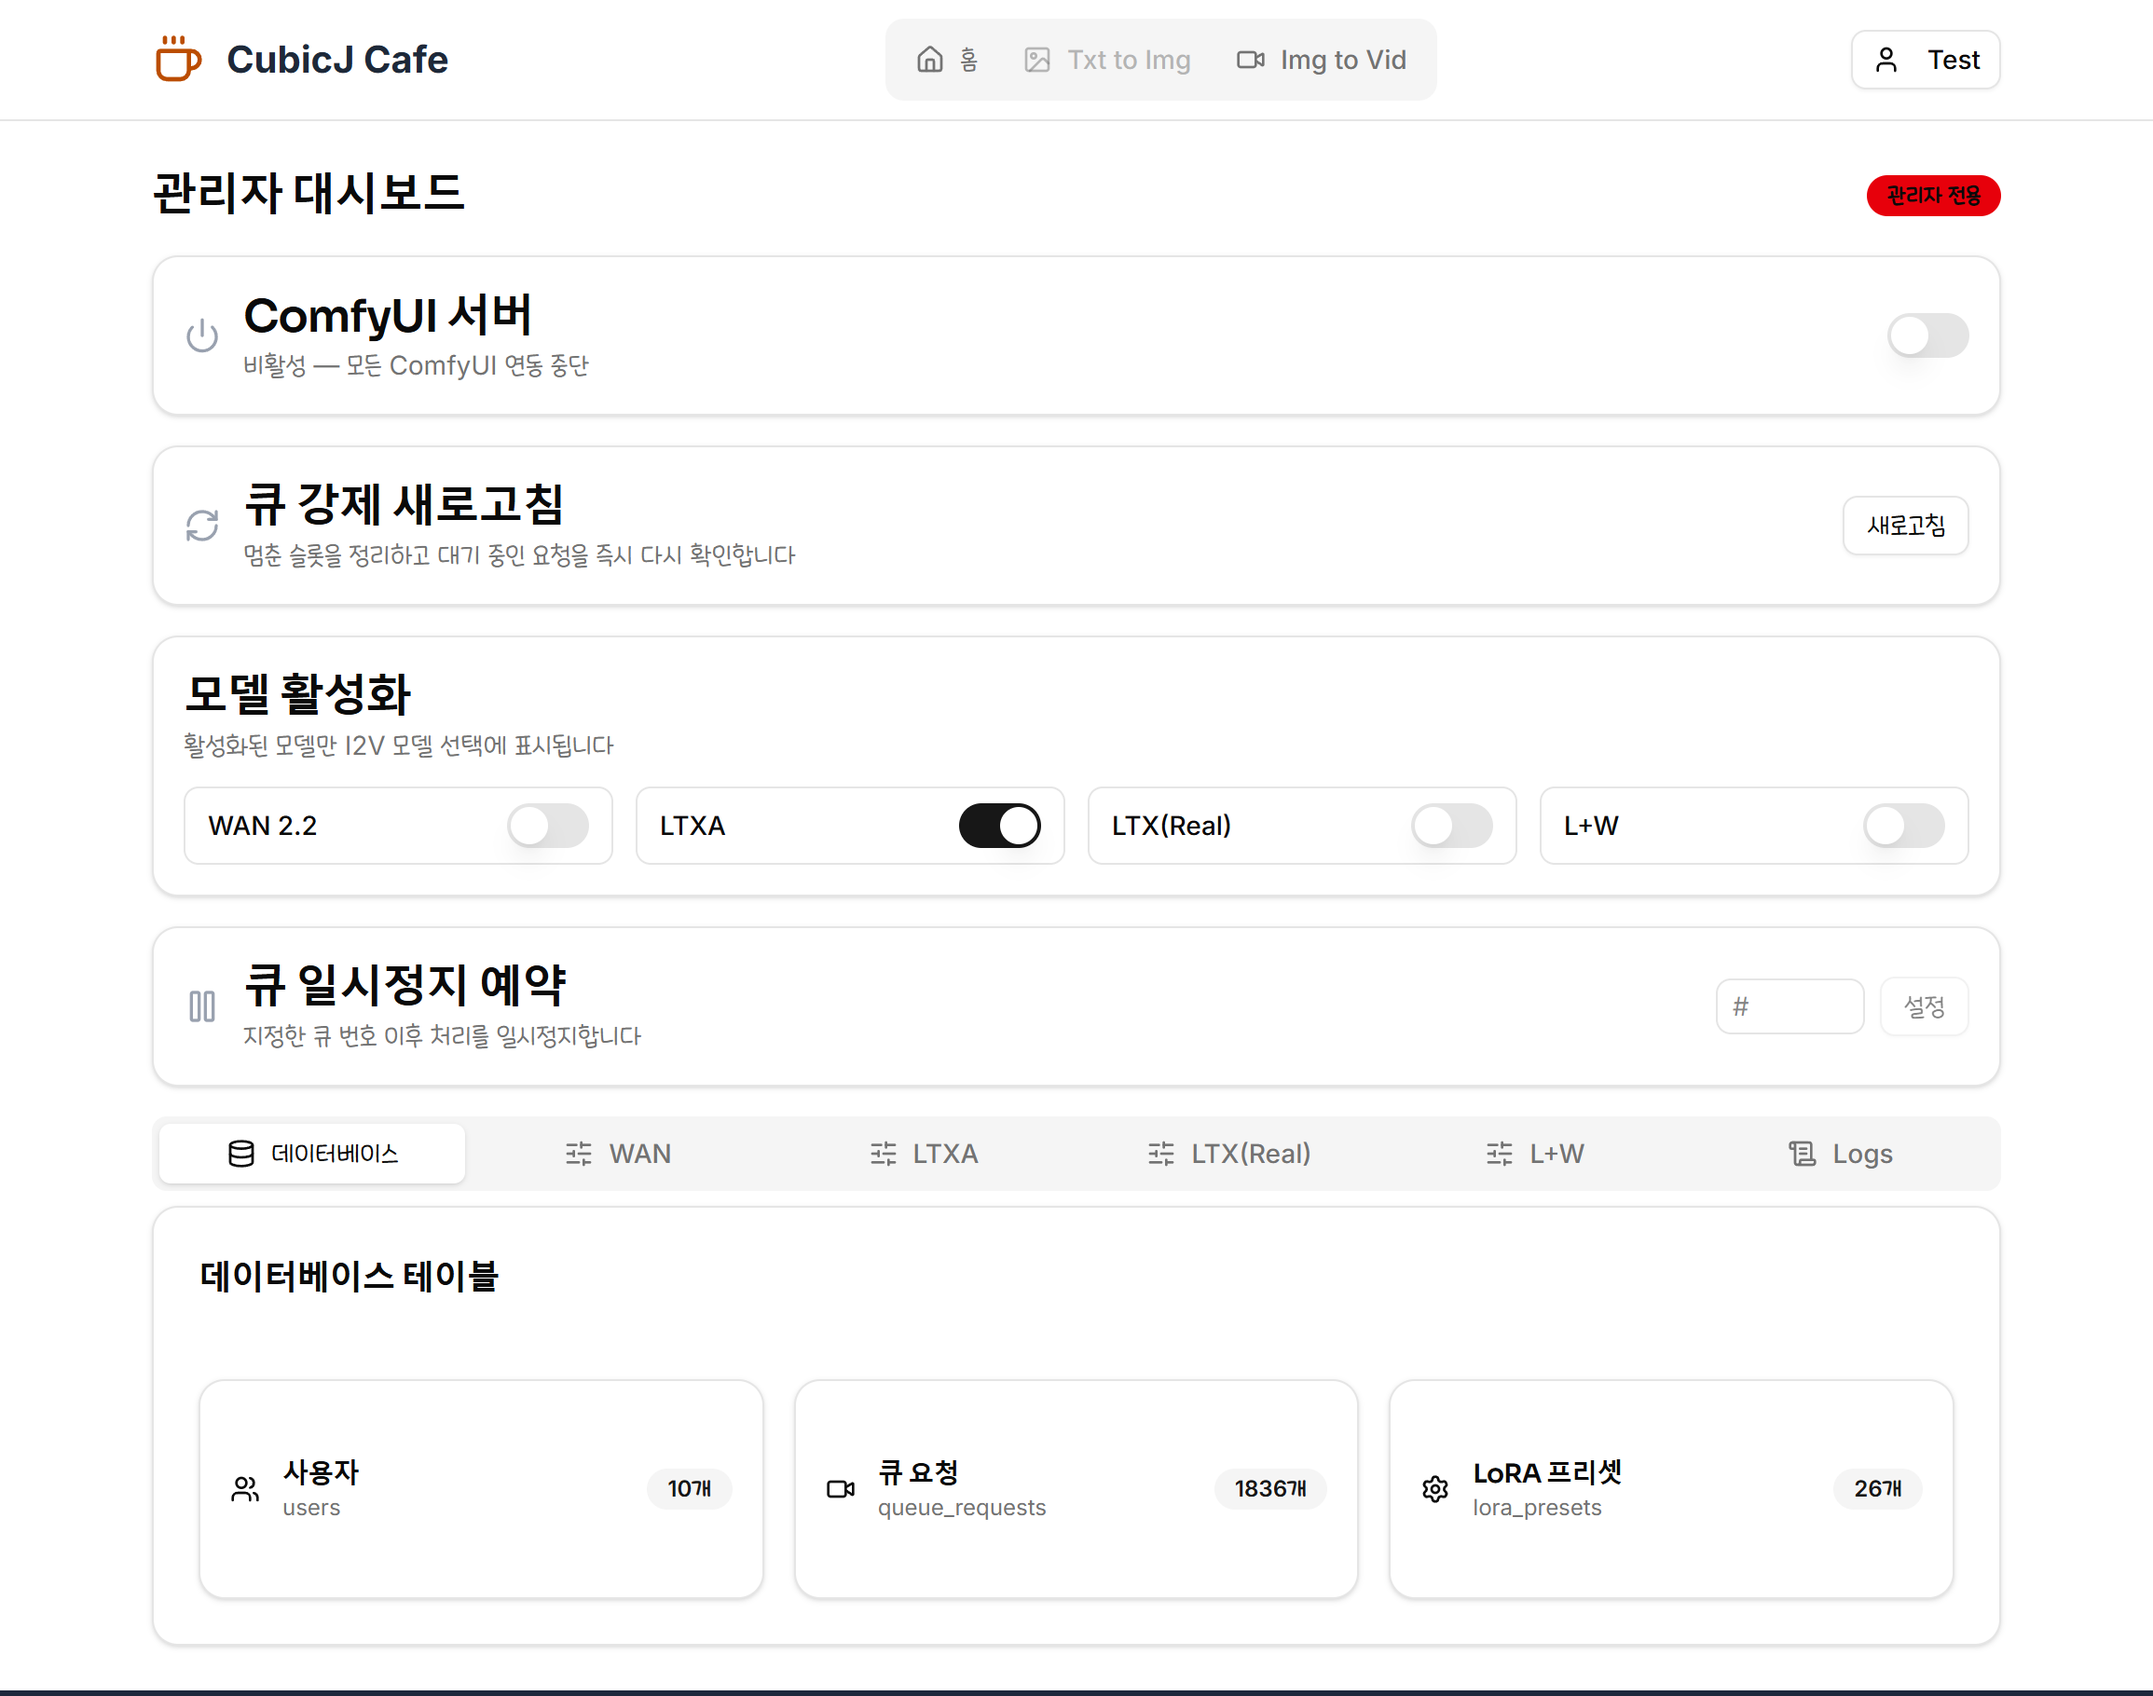
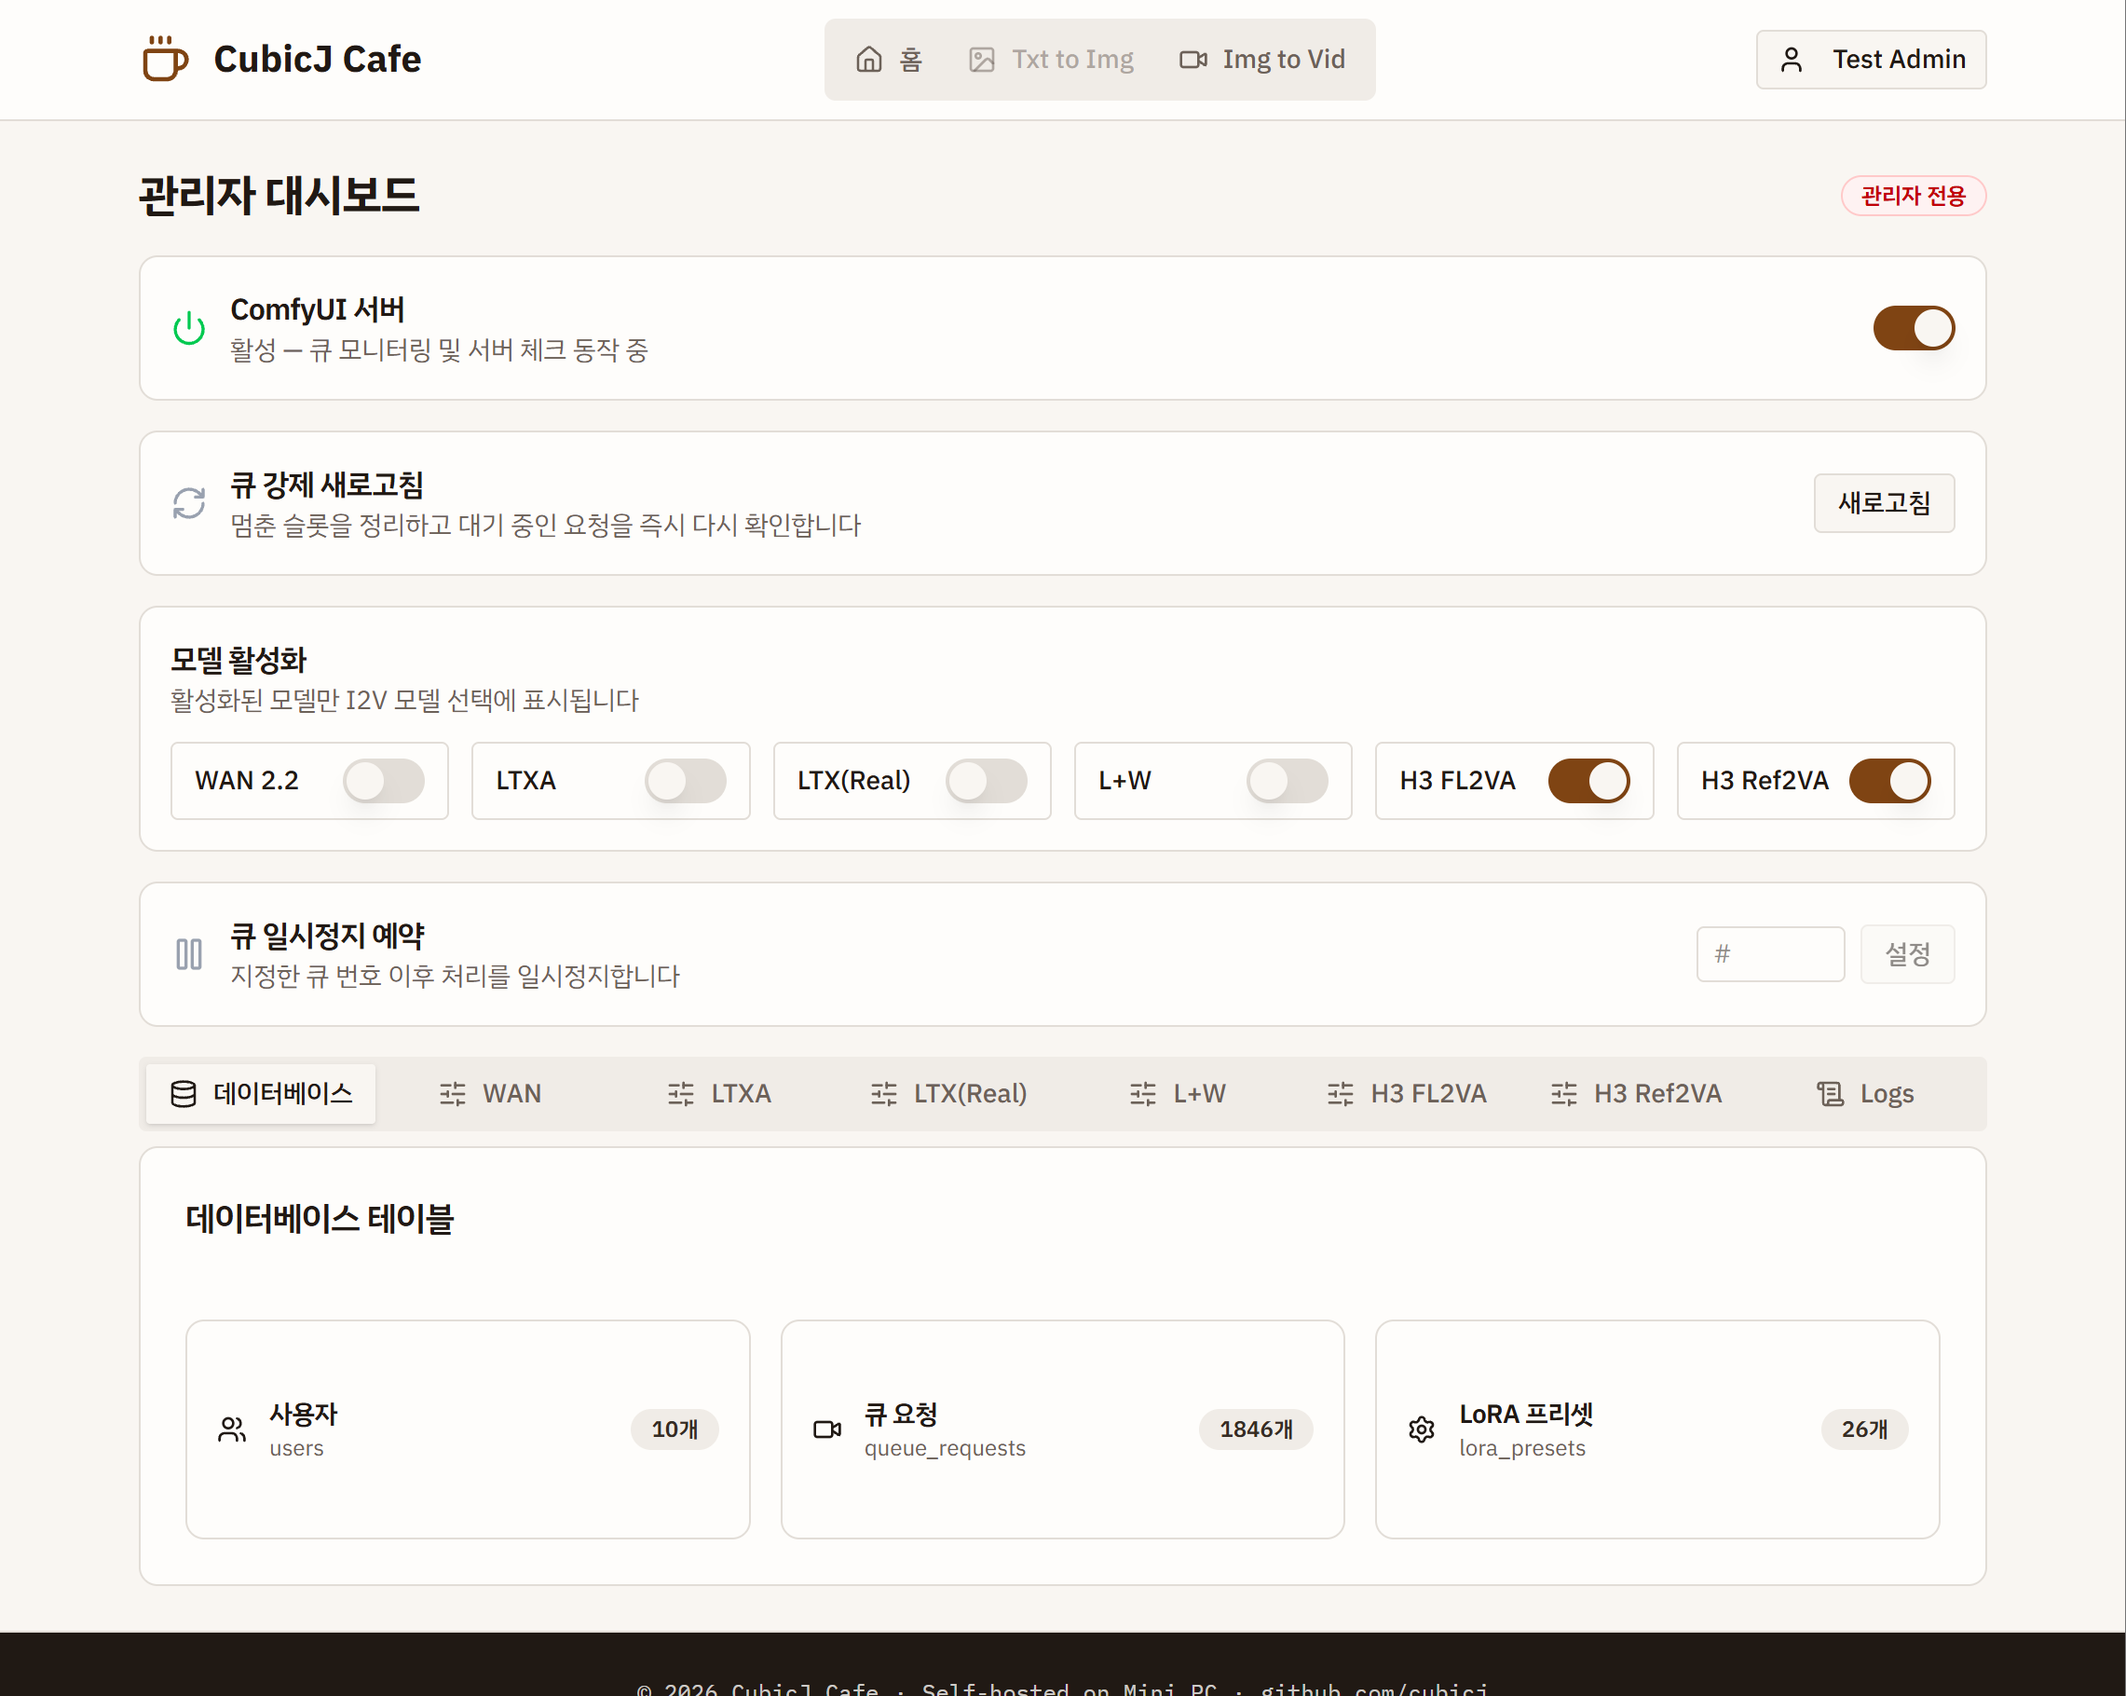
docs: refresh README and screenshots

diff --git a/README.md b/README.md
@@ -8,28 +8,34 @@ Upload an image, write a prompt, and get a generated video delivered to Discord 
 
 ![Home](.github/images/home.png)
 
-| Generation | Admin Dashboard |
+| Generation | Generation form |
 |------------|-----------------|
-| ![Generation page](.github/images/i2v.png) | ![Admin dashboard](.github/images/admin.png) |
+| ![Generation page](.github/images/i2v.png) | ![Generation form](.github/images/i2v-form.png) |
+| Settings | Admin dashboard |
+| ![Settings](.github/images/settings.png) | ![Admin dashboard](.github/images/admin.png) |
 
 ## Features
 
 - **Image-to-Video** — Upload an image with a prompt, get a generated video
-- **Multi-Model** — Five workflow pipelines dispatched through a single capability-driven registry
+- **Multi-Model** — Six workflow pipelines dispatched through a single capability-driven registry
 
-  | Model | End Image | Audio | Duration |
-  |-------|:---------:|:-----:|----------|
+  | Model | End Image | Audio Output | Duration |
+  |-------|:---------:|:------------:|----------|
   | WAN 2.2 | ✓ | — | 5–7s |
   | LTX (Anime) | — | ✓ | 5–7s |
   | LTX (Real) | ✓ | ✓ | 5–7s |
   | L+W (LTX + WAN hybrid) | ✓ | ✓ | 5–8s |
-  | H3 FL2VA (MiniMax) | ✓ | ✓ | frame-count based |
+  | H3 FL2VA (MiniMax) | ✓ | ✓ (native) | frame-count based |
+  | H3 Ref2VA (MiniMax) | — | ✓ (native) | frame-count based |
 
   H3 FL2VA takes a first frame, a last frame, or both — any single image is enough (F2VA / L2VA / FL2VA modes).
 
+  H3 Ref2VA accepts up to 9 reference images, 3 reference videos, and 3 reference audio clips. Output aspect ratio comes from the first reference image or a custom ratio.
+
 - **Queue System** — Serializable queue with atomic position assignment and real-time status tracking
+- **Reference Inputs** — Drag-and-drop image, video, and audio uploads with per-kind limits (9 / 3 / 3) and first-image or custom aspect-ratio control
 - **LoRA Presets & Bundles** — Drag-and-drop preset management, per-model availability gated by capability flags
-- **Audio Presets** — Upload and reuse audio clips for audio-capable models
+- **Audio Presets** — Upload and reuse audio clips as generation input on the LTX-family models; H3 Ref2VA takes reference audio directly
 - **Prompt Translation** — Built-in translation endpoint for non-English prompts
 - **Discord Integration** — OAuth2 auth + in-process bot delivery of completed videos
 - **Admin Dashboard** — Model activation toggles, queue control and pause scheduling, live log viewer (SSE), ComfyUI monitoring, DB browser
@@ -39,7 +45,7 @@ Upload an image, write a prompt, and get a generated video delivered to Discord 
 
 | Layer | Technology |
 |-------|-----------|
-| Frontend | Next.js 16, React 19, TailwindCSS 4, Shadcn/ui |
+| Frontend | Next.js 16, React 19, TailwindCSS 4, Shadcn/ui; IBM Plex Sans KR + self-hosted IBM Plex Mono; light-only warm token theme ([DESIGN.md](DESIGN.md)) |
 | Backend | Next.js API Routes, Prisma 7 (better-sqlite3 driver adapter), SQLite |
 | Auth | Custom Discord OAuth2 (HttpOnly cookie sessions) |
 | Validation | Zod v4 schemas across all route handlers |
@@ -65,7 +71,7 @@ src/
 │   └── settings/     # User settings
 ├── lib/
 │   ├── comfyui/      # Queue/job monitors, server management
-│   │   └── workflows/  # Per-model builders (wan, ltxa, ltxr, ltx-wan, h3-fl2va) + registry
+│   │   └── workflows/  # Per-model builders (wan, ltxa, ltxr, ltx-wan, h3-fl2va, h3-ref2va) + registry
 │   ├── database/     # Prisma service layer
 │   ├── auth/         # Session management, withAuth/withAdmin HOF
 │   ├── validations/  # Zod schemas + parse helpers
@@ -86,7 +92,7 @@ tests/                # Mirrors src/ (route handler tests hit real DB sessions)
 npm install
 npm run prisma:migrate    # Set up database
 npm run dev               # Dev server
-npm test                  # 570 tests
+npm test                  # 666 tests
 npm run type-check        # tsc --noEmit
 npm run lint              # ESLint
 ```
